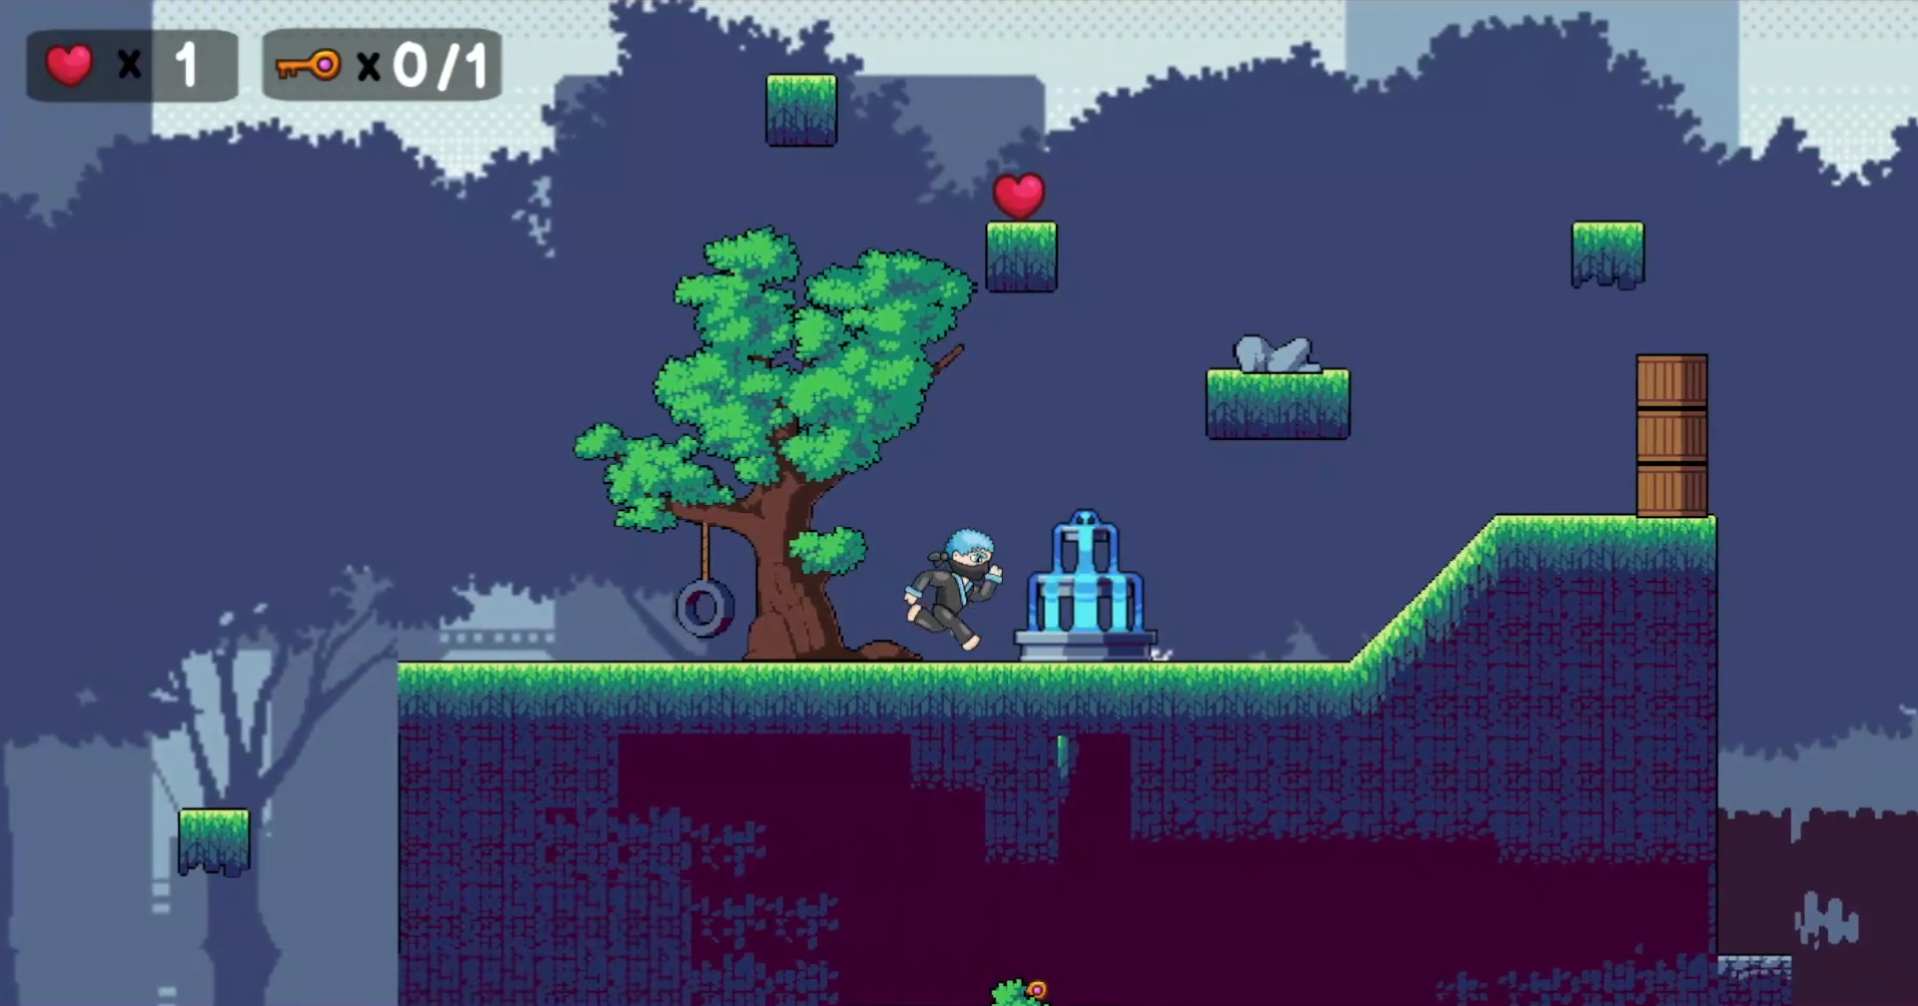
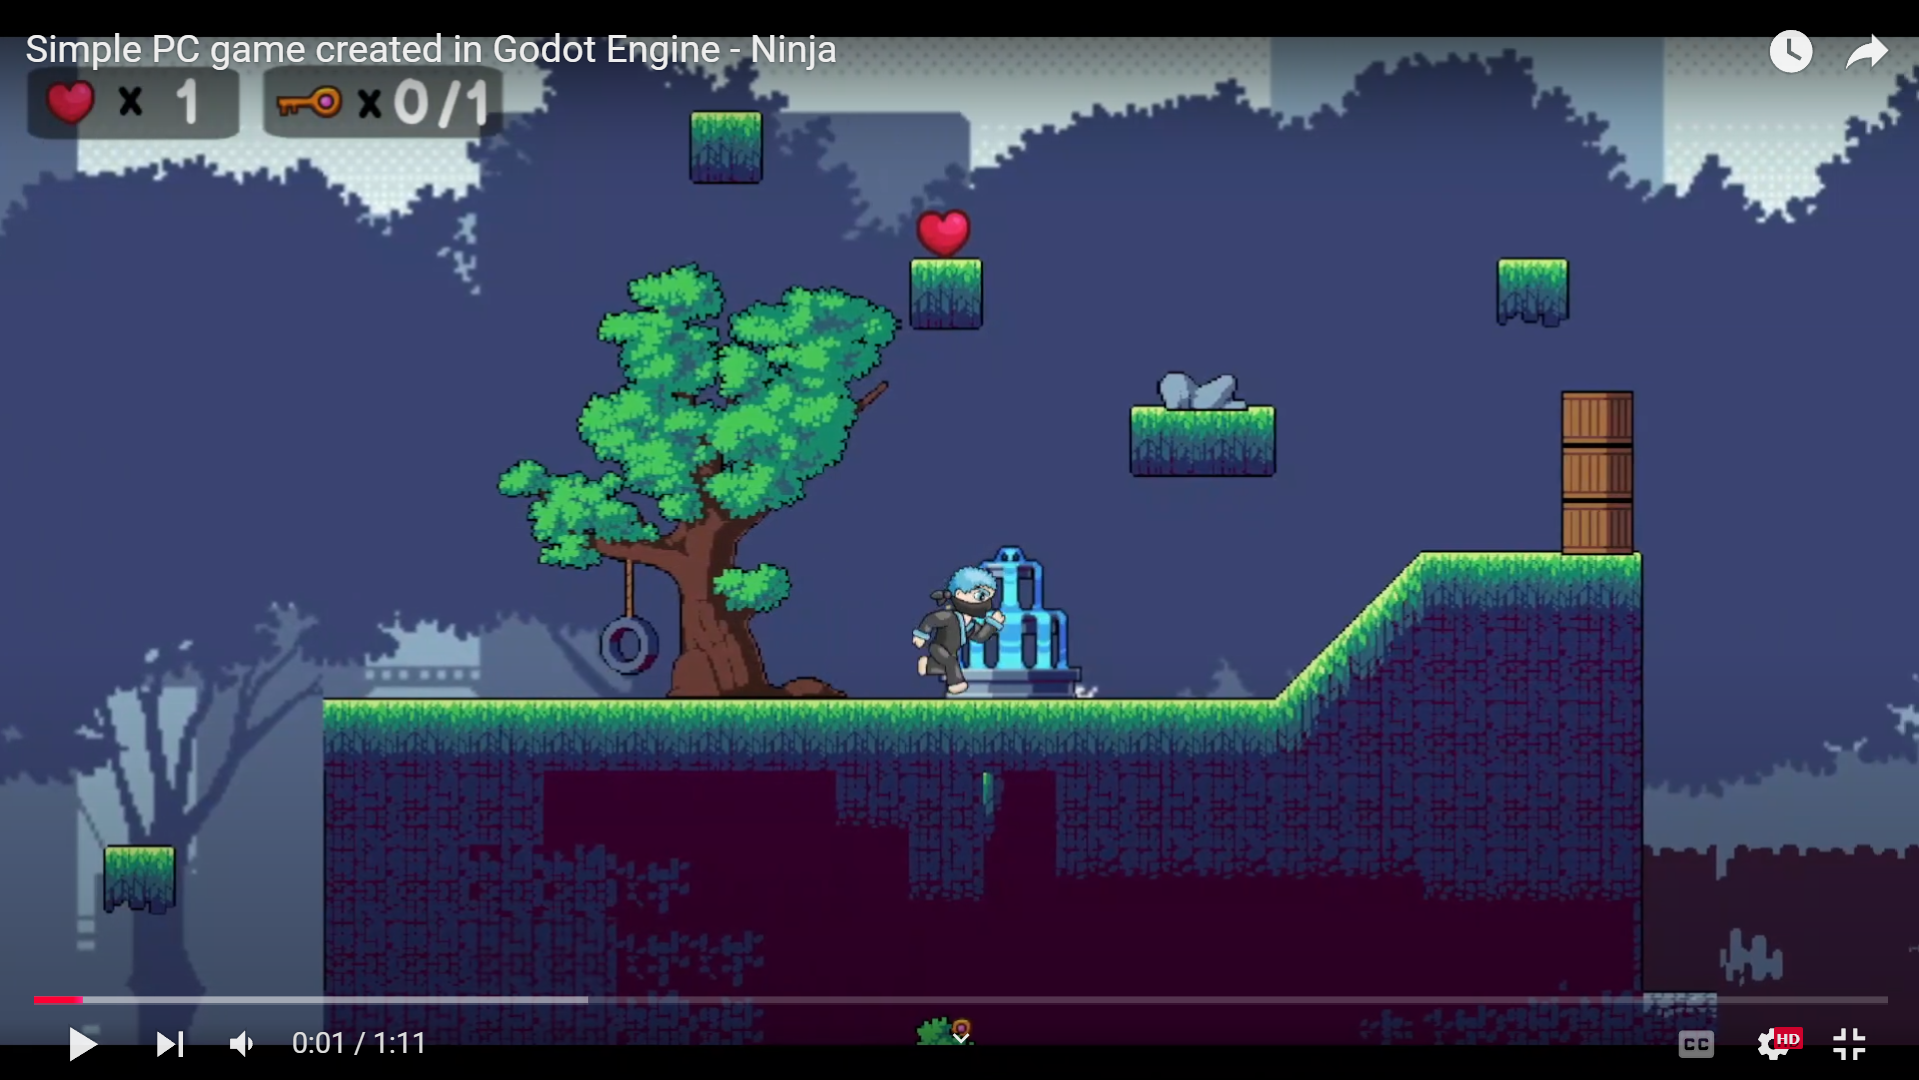
readme update

diff --git a/README.md b/README.md
@@ -1,13 +1,13 @@
 # Simple PC game created in Godot Engine - Ninja
 
-![Godot game - Ninja](readme_images/game.png)
-
 According to the game scenario, you need to find a key, but to reach it, you must overcome a dangerous path and may lose several lives along the way.
 
-**> Watch the video** [https://www.youtube.com/watch?v=WVpwSL9hcys](https://www.youtube.com/watch?v=WVpwSL9hcys)
+## Video
+<a href="https://www.youtube.com/watch?v=WVpwSL9hcys" target="_blank">![Watch the video](readme_images/game.png)</a>
 
 
-Sources of the assets:
+
+## Sources of the assets:
 * ninja - https://dar7hvad3r.itch.io/ninja-character-sprite-sheet-2d?download
 * background, basic tiles - https://craftpix.net/freebies/free-green-zone-tileset-pixel-art/
 * tiles like heart, key, box - https://craftpix.net/freebies/free-medieval-ruins-cartoon-2d-tileset/
